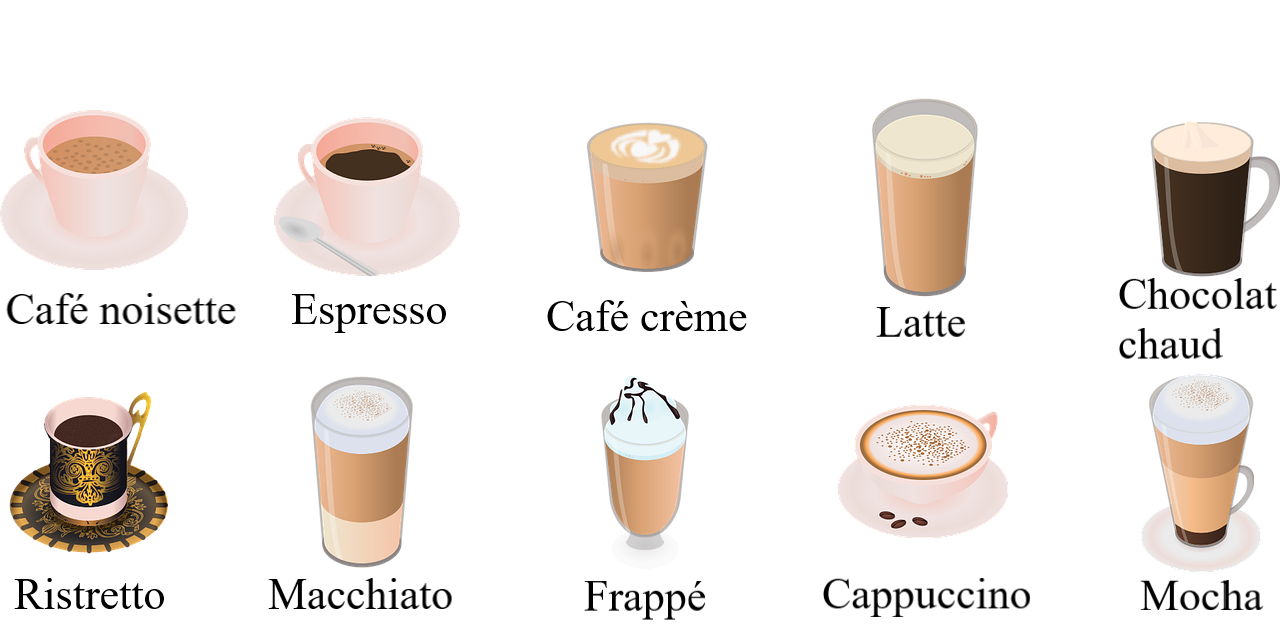
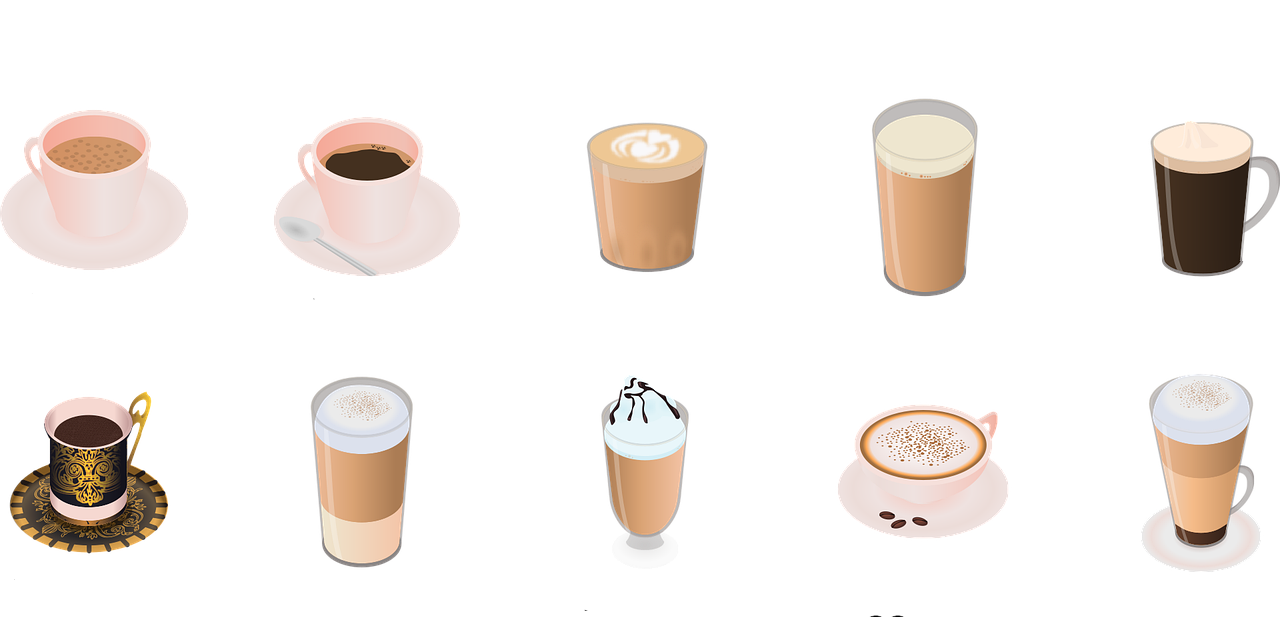
création de la page des cafés

diff --git a/app/views/main/coffee.tpl.php b/app/views/main/coffee.tpl.php
@@ -1,3 +1,3 @@
-<h2 class="text-white text-center fs-1 mt-3 mb-5"> Nos choix de cafés</h2>
-    <img src="<?=$assetsBaseUri ?>img/">
+<h2 class="text-white text-center fs-1 mt-5 mb-3"> Nos choix de cafés</h2>
+    <img src="<?=$assetsBaseUri ?>img/coffee-g152bdc3b3_1280.png" class="img-fluid position-relative top-50 start-50 translate-middle-x" width="1000px" height="900px" alt="types de cafés" >
     
